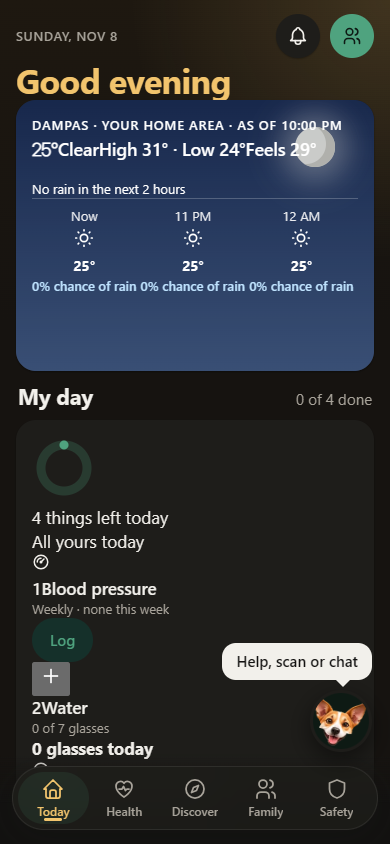
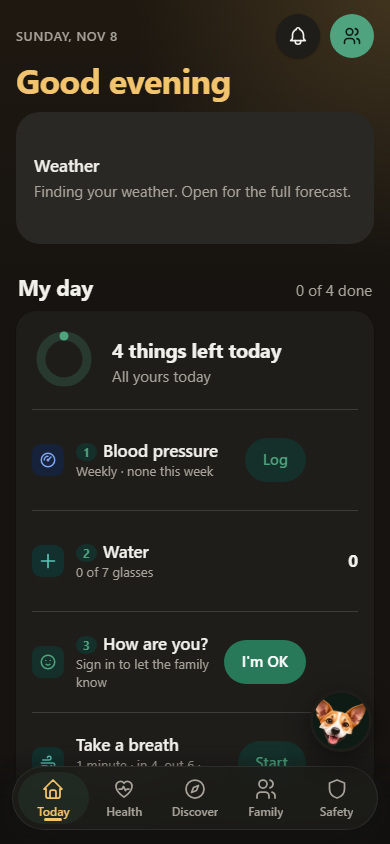
S25 lane E fix round 1: restore today.css (td-hero/td-dots removed rule by rule), CSS parse test, Calm Show more colour, e2e crisis guards re-measured, tab bar and MovePanel tests, v13 block after MoreGrid, flat tab fallback, shots

diff --git a/e2e/v13-calm.spec.ts b/e2e/v13-calm.spec.ts
@@ -5,7 +5,10 @@ import { assertHero, assertJackClear, assertNarrow, assertNoSideways, assertNoWr
 declare const process: { env: Record<string, string | undefined> } // no @types/node in this repo
 
 // v13 lane C: the Calm page (#calm). Hero first, Ask Jack sheet, Listen and watch (on by default), crisis card from hotlines.json.
-// The crisis card's place on the page at scroll 0: the board's one row plus the note, measured at each width (see the layout test).
+// The crisis card's place on the page at scroll 0: the 2-column grid of 4 cards, its Show more button and the note, measured at each width (see the layout test).
+// S25 fix round measured (Chromium, 390 and 450 wide): grid + button 586 px at both, gap 87 / 66, crisis card top 2223.6 / 2181.6 (was 1868 / 1826 with the one swipe row: 4 tall cards in 2 rows, 355 px lower by design).
+const CRISIS_TOP_MAX = { 390: 2232, 450: 2190 } as const
+const ROW_MAX = 592 // px: the grid (two rows of the tallest radio card) plus the 48 px Show more button and its 10 px gap; measured 586
 
 // Specs do not depend on a live stream, so the stream address is stubbed with a local fixture: state logic only. 60 s of 8 kHz 8-bit silence, a WAV made here.
 function silentWav(): Buffer {
@@ -131,6 +134,7 @@ test('one row: radio cards, the podcast link and the video posters; no stream or
   const a = page.locator('[data-testid="calm-media"] a[href="https://www.tarabrach.com/podcast/"]')
   await expect(a).toHaveAttribute('target', '_blank')
   await expect(a).toHaveAttribute('rel', /noopener/)
+  await page.getByRole('button', { name: 'Show 4 more' }).click() // the videos sit behind Show more
   await expect(page.getByRole('button', { name: /Play Steps for Stress/ })).toBeVisible()
   await expect(page.locator('[data-testid="calm-media"] iframe')).toHaveCount(0)
   await expect(page.getByTestId('calm-audio')).toHaveCount(1)
@@ -144,7 +148,7 @@ for (const [w, h] of [[390, 844], [450, 949]] as const) {
     await page.evaluate(() => document.querySelector('.bt .scroll')!.scrollTo(0, 0))
     const m = await page.evaluate(() => {
       const box = (s: string) => document.querySelector(s)!.getBoundingClientRect()
-      const cards = [...document.querySelectorAll('[data-testid="calm-row"] > *')].map((c) => c.getBoundingClientRect())
+      const cards = [...document.querySelectorAll('[data-testid="calm-row"] .more-grid > *')].map((c) => c.getBoundingClientRect())
       return { scroll: document.querySelector('.bt .scroll')!.scrollTop, widths: cards.map((c) => Math.round(c.width)), tops: new Set(cards.map((c) => Math.round(c.top))).size, head: box('[data-testid="calm-radio-rpmellow"] .cm-media-ic').height, rowH: box('[data-testid="calm-row"]').height, gap: box('[data-testid="calm-crisis"]').top - box('[data-testid="calm-row"]').bottom, noteH: box('[data-testid="calm-row"] + p').height, crisisTop: box('[data-testid="calm-crisis"]').top }
     })
     console.log(`crisis at scroll 0, ${w} px: ${JSON.stringify(m)}`)
@@ -152,6 +156,9 @@ for (const [w, h] of [[390, 844], [450, 949]] as const) {
     expect(m.widths).toHaveLength(4); expect(new Set(m.widths).size).toBe(1) // S25: a 2-column grid of 4, then Show more
     expect(m.tops).toBe(2)
     expect(m.head).toBe(84)
+    expect(m.rowH).toBeLessThanOrEqual(ROW_MAX)
+    expect(m.gap).toBeLessThanOrEqual(m.noteH + 32) // only the note and two page gaps between the grid and the crisis card
+    expect(m.crisisTop).toBeLessThanOrEqual(CRISIS_TOP_MAX[w])
   })
 }
 
@@ -171,16 +178,20 @@ for (const [w, h] of [[390, 844], [450, 949]] as const) {
     console.log(`error ${w}: ${JSON.stringify({ rest, err })}`)
     expect(err.rowH).toBe(rest.rowH) // the failed card fits its reserved height, so no card grows
     expect(err.crisisTop).toBe(rest.crisisTop)
+    expect(err.rowH).toBeLessThanOrEqual(ROW_MAX)
+    expect(err.crisisTop).toBeLessThanOrEqual(CRISIS_TOP_MAX[w])
     await page.context().setOffline(true)
     await expect(page.getByTestId('calm-media')).toContainText('You are offline.')
     const off = await place(page)
     console.log(`offline ${w}: ${JSON.stringify(off)}`)
     await page.context().setOffline(false)
+    expect(off.rowH).toBeLessThanOrEqual(ROW_MAX)
     // the whole page moves for the app's own offline strip (OfflineBar, 70 px measured); Calm itself adds nothing above the crisis card
     const strip = off.heroTop - rest.heroTop
     expect(strip).toBeGreaterThan(0)
     expect(strip).toBeLessThanOrEqual(72)
     expect(off.crisisTop - strip).toBeLessThanOrEqual(rest.crisisTop)
+    expect(off.crisisTop - strip).toBeLessThanOrEqual(CRISIS_TOP_MAX[w])
   })
 }
 

diff --git a/src/features/look/v13.css b/src/features/look/v13.css
@@ -89,6 +89,7 @@ section.sec > .sec-h .sec-meta { font-size: 15px; color: var(--muted); }
 /* S25 MoreGrid (D-156): 4 cards in 2 columns, then Show more. Cards fill their cell. */
 .more-grid { display: grid; grid-template-columns: repeat(2, minmax(0, 1fr)); gap: 10px; }
 .more-grid > * { min-width: 0; width: auto; }
+.more-grid-btn { width: 100%; min-height: 48px; margin-top: 10px; border: 1.5px solid var(--tab-accent, var(--green)); background: transparent; color: var(--tab-accent, var(--green)); border-radius: 999px; font: inherit; font-size: 15px; font-weight: 700; cursor: pointer; }
 
 /* S25 (E): per-tab colour. App sets data-tab on .bt; each tab defines the ground (top, below 320 px), the header glow, a text-safe accent and a chip fill. Red stays for SOS only.
    contrast: look/tabTokens.test.ts checks --tab-accent and --ink/--muted on both grounds in light and dark. */
@@ -113,6 +114,8 @@ section.sec > .sec-h .sec-meta { font-size: 15px; color: var(--muted); }
   :root:not([data-theme="light"]) .bt[data-tab="safety"] { --tab-bg: #111E1D; --tab-bg2: #121716; --tab-accent: #8FCFC8; --tab-accent-soft: #16322F; }
   :root:not([data-theme="light"]) .bt[data-tab] { --tab-glow-o: 16%; }
 }
+/* flat fallback for WebViews without :has() / color-mix(): the plain tab colour (the rule below replaces it where supported) */
+.bt[data-tab]:not([data-tab="none"]):not([data-wx]) > .scroll { background-color: var(--tab-bg); }
 /* page ground: a vertical wash over the first 320 px with a soft glow top right; it scrolls with the content (local). Weather and Calm keep their own grounds. */
 .bt[data-tab]:not([data-tab="none"]):not([data-wx]):not(:has(.cm-root)) > .scroll {
   background-color: var(--tab-bg2);
@@ -130,4 +133,3 @@ section.sec > .sec-h .sec-meta { font-size: 15px; color: var(--muted); }
 .card-depth { background-image: linear-gradient(to bottom, rgb(255 255 255 / .55), rgb(255 255 255 / 0) 42%); box-shadow: inset 0 1px 0 rgb(255 255 255 / .7), var(--depth-card); }
 :root[data-theme="dark"] .card-depth { background-image: linear-gradient(to bottom, rgb(255 255 255 / .06), rgb(255 255 255 / 0) 42%); box-shadow: inset 0 1px 0 rgb(255 255 255 / .08), var(--depth-card); }
 @media (prefers-color-scheme: dark) { :root:not([data-theme="light"]) .card-depth { background-image: linear-gradient(to bottom, rgb(255 255 255 / .06), rgb(255 255 255 / 0) 42%); box-shadow: inset 0 1px 0 rgb(255 255 255 / .08), var(--depth-card); } }
-.more-grid-btn { width: 100%; min-height: 48px; margin-top: 10px; border: 1.5px solid var(--tab-accent, var(--green)); background: transparent; color: var(--tab-accent, var(--green)); border-radius: 999px; font: inherit; font-size: 15px; font-weight: 700; cursor: pointer; }

diff --git a/src/features/look/tabTokens.test.ts b/src/features/look/tabTokens.test.ts
@@ -1,5 +1,6 @@
 import { describe, expect, it } from 'vitest'
 import v13 from './v13.css?raw'
+import calm from '../calm/calm.css?raw'
 import { parse, ratio, tokensOf } from './contrastMath'
 
 const TABS = ['today', 'health', 'discover', 'family', 'safety'] as const
@@ -34,5 +35,36 @@ describe('tab tokens contract', () => {
       const m = v13.match(new RegExp(`:root:not\\(\\[data-theme="light"\\]\\) \\.bt\\[data-tab="${tab}"\\] \\{([^}]*)\\}`))![1]!
       expect(vars(m)).toEqual(a)
     }
+  })
+})
+
+describe('tab bar active item and Calm button', () => {
+  for (const theme of ['light', 'dark'] as const) {
+    it(`${theme}: the active label and bar (--tab-accent) pass 4.5:1 on the tab bar surface (--card)`, () => {
+      const base = tokensOf(theme)
+      for (const tab of TABS) {
+        const light = vars(v13.match(LIGHT(tab))![1]!)
+        const t = { ...base, ...(theme === 'light' ? light : { ...light, ...vars(v13.match(DARK(tab))![1]!) }) }
+        expect(ratio(parse(t['--tab-accent']!)[0], parse(t['--card']!)[0]), `${tab} ${theme}`).toBeGreaterThanOrEqual(4.5)
+      }
+    })
+  }
+  it('the active item gets the accent label and the accent bar', () => {
+    expect(v13).toMatch(/\.sh-tabs button\[aria-current="page"\], [^{]*\{ color: var\(--tab-accent/)
+    expect(v13).toMatch(/\.sh-tabs button\[aria-current="page"\]::after \{[^}]*background: var\(--tab-accent/)
+  })
+  it('Calm: the Show more button uses --calm-mint, which passes 4.5:1 on every stop of the Calm ground', () => {
+    expect(calm).toMatch(/\.cm-root \.more-grid-btn \{[^}]*color: var\(--calm-mint\)/)
+    const mint = parse(calm.match(/--calm-mint:\s*(#[0-9A-Fa-f]{6})/)![1]!)[0]
+    for (const ground of ['#1D3A6E', '#0E1B3A', '#0A1430']) expect(ratio(mint, parse(ground)[0]), ground).toBeGreaterThanOrEqual(4.5)
+  })
+  it('the flat fallback sits before the :has()/color-mix() ground', () => {
+    const flat = v13.indexOf('background-color: var(--tab-bg); }')
+    expect(flat).toBeGreaterThan(-1)
+    expect(flat).toBeLessThan(v13.indexOf(':not(:has(.cm-root)) > .scroll {'))
+  })
+  it('the E block sits after the MoreGrid block, not inside it', () => {
+    expect(v13.indexOf('.more-grid-btn {')).toBeGreaterThan(v13.indexOf('.more-grid > *'))
+    expect(v13.indexOf('.more-grid-btn {')).toBeLessThan(v13.indexOf('S25 (E)'))
   })
 })

diff --git a/src/features/today/today.css b/src/features/today/today.css
@@ -16,7 +16,7 @@
 
 /* hero */
 
-.td-slide { flex: 0 0 auto; background: var(--green); color: var(--on-green); border-radius: 28px; padding: 20px; display: flex; flex-direction: column; gap: 10px; position: relative; overflow: hidden; box-sizing: border-box; min-width: 0; }
+.td-slide { flex: 0 0 100%; scroll-snap-align: center; background: var(--green); color: var(--on-green); border-radius: 28px; padding: 20px; display: flex; flex-direction: column; gap: 10px; position: relative; overflow: hidden; box-sizing: border-box; min-width: 0; }
 .td-slide.weather { background: var(--green2); }
 .td-slide.alert { background: color-mix(in srgb, var(--red) 62%, #000); }
 .td-k { font-size: 13px; letter-spacing: .06em; text-transform: uppercase; opacity: .85; font-weight: 600; }
@@ -27,7 +27,8 @@
 .td-act { margin-top: auto; display: flex; gap: 8px; flex-wrap: wrap; padding-top: 6px; }
 .bt .td-pill { display: inline-flex; align-items: center; justify-content: center; min-height: 48px; text-decoration: none; padding: 0 18px; border-radius: 999px; border: 0; font-weight: 600; font-size: 15px; background: rgba(255, 255, 255, .16); color: var(--on-green); }
 .bt .td-pill.light { background: var(--on-green); color: var(--green); }
-:root[data-theme="dark"] @media (prefers-color-scheme: dark) { :root:not([data-theme="light"]) /* setup card */
+
+/* setup card */
 .td-setup { display: flex; flex-direction: column; gap: 8px; }
 .td-setup ul { margin: 0; padding: 0; list-style: none; }
 .bt .td-setup li button, .bt .td-next { width: 100%; min-height: 48px; border: 0; background: transparent; color: var(--link); font-size: 15px; font-weight: 600; text-align: left; padding: 0; }
@@ -94,7 +95,7 @@
 .td-root { display: flex; flex-direction: column; gap: 16px; }
 .td-root > * { margin-top: 0; margin-bottom: 0; }
 .td-root .td-sech { margin: 0 2px 10px; }
-.td-root 
+
 /* Next up: one card (none when nothing needs doing), amber kicker for a medicine not taken (red is only for emergencies). */
 .td-slide.dose .td-k { color: var(--amber); opacity: 1; }
 /* dark: --amber on dark green is 4.34:1, this lighter amber is 4.93:1 */

diff --git a/src/features/exercise/MovePanel.test.tsx b/src/features/exercise/MovePanel.test.tsx
@@ -6,6 +6,7 @@ vi.mock('./data', () => ({ useMoveData: () => ({ personId: 'p1', acts: [], gateO
 vi.mock('../safety/store', () => ({ putKv: async () => undefined }))
 
 import MovePanel from './MovePanel'
+import exerciseCss from './exercise.css?raw'
 
 afterEach(cleanup)
 
@@ -22,6 +23,16 @@ describe('MovePanel without the doctor OK (H15)', () => {
     expect(moves.length).toBeLessThanOrEqual(6)
     expect(moves.every((b) => b.getAttribute('aria-disabled') === 'true')).toBe(true)
     expect(screen.queryByTestId('move-gate')).toBeNull()
+  })
+  it('S25: 4 move cards, then "Show N more", and the cards take their cell width (no fixed width, no swipe)', () => {
+    data.gateOk = true
+    render(<MovePanel />)
+    const grid = within(screen.getByTestId('move-carousel'))
+    expect(grid.getAllByRole('button').filter((b) => b.classList.contains('mv-ccard'))).toHaveLength(4)
+    expect(grid.getByRole('button', { name: /^Show \d+ more$/ })).toBeTruthy()
+    const rules = [...exerciseCss.matchAll(/\.mv-ccard \{([^}]*)\}/g)].map((m) => m[1]!).join(' ')
+    expect(rules).toMatch(/width: auto/)
+    expect(rules).not.toMatch(/(^|[; ])width: \d|scroll-snap|flex: none/)
   })
   it('R4 hideRing: no ring, the browse list stays', () => {
     data.gateOk = true

diff --git a/src/features/look/cssParse.test.ts b/src/features/look/cssParse.test.ts
@@ -1,0 +1,17 @@
+import postcss from 'postcss'
+import { describe, expect, it } from 'vitest'
+
+// S25 fix round: a hand edit of today.css once merged a selector into an @media and left a brace open, and the browser dropped ~620 lines. Every stylesheet must parse and balance.
+const files = import.meta.glob('/src/**/*.css', { query: '?raw', import: 'default', eager: true }) as Record<string, string>
+
+describe('every stylesheet parses', () => {
+  it('finds the stylesheets', () => expect(Object.keys(files).length).toBeGreaterThan(10))
+  for (const [path, css] of Object.entries(files)) {
+    it(path, () => {
+      const noComments = css.replace(/\/\*[\s\S]*?\*\//g, '')
+      expect(noComments.split('{').length, 'braces balance').toBe(noComments.split('}').length)
+      const root = postcss.parse(css) // throws on an unclosed block or a stray }
+      root.walkRules((r) => expect(r.selector, `selector of a rule at line ${r.source?.start?.line}`).not.toMatch(/@|\/\*/))
+    })
+  }
+})

diff --git a/src/features/calm/calm.css b/src/features/calm/calm.css
@@ -12,6 +12,7 @@
 .cm-root .btn { color: var(--on-green); }
 .cm-root .segd > [aria-pressed="true"] { background: var(--calm-mint); color: var(--calm-on-mint); box-shadow: none; }
 .cm-root .card { border: .5px solid rgba(160,190,255,.22); }
+.cm-root .more-grid-btn { border-color: var(--calm-mint); color: var(--calm-mint); } /* S25: not the tab accent, which is dark amber and ~2.4:1 on the navy */
 .cm { display: flex; flex-direction: column; gap: 14px; min-width: 0; padding-bottom: 8px; }
 .cm-hero { background: none; color: var(--ink); min-width: 0; text-align: center; padding: 18px 16px 20px; display: grid; grid-template-columns: minmax(0, 1fr); justify-items: center; gap: 8px; }
 /* the orb is a dotted sphere (S22-C); the word and count sit on a solid ground disc, and are hidden before Start */
